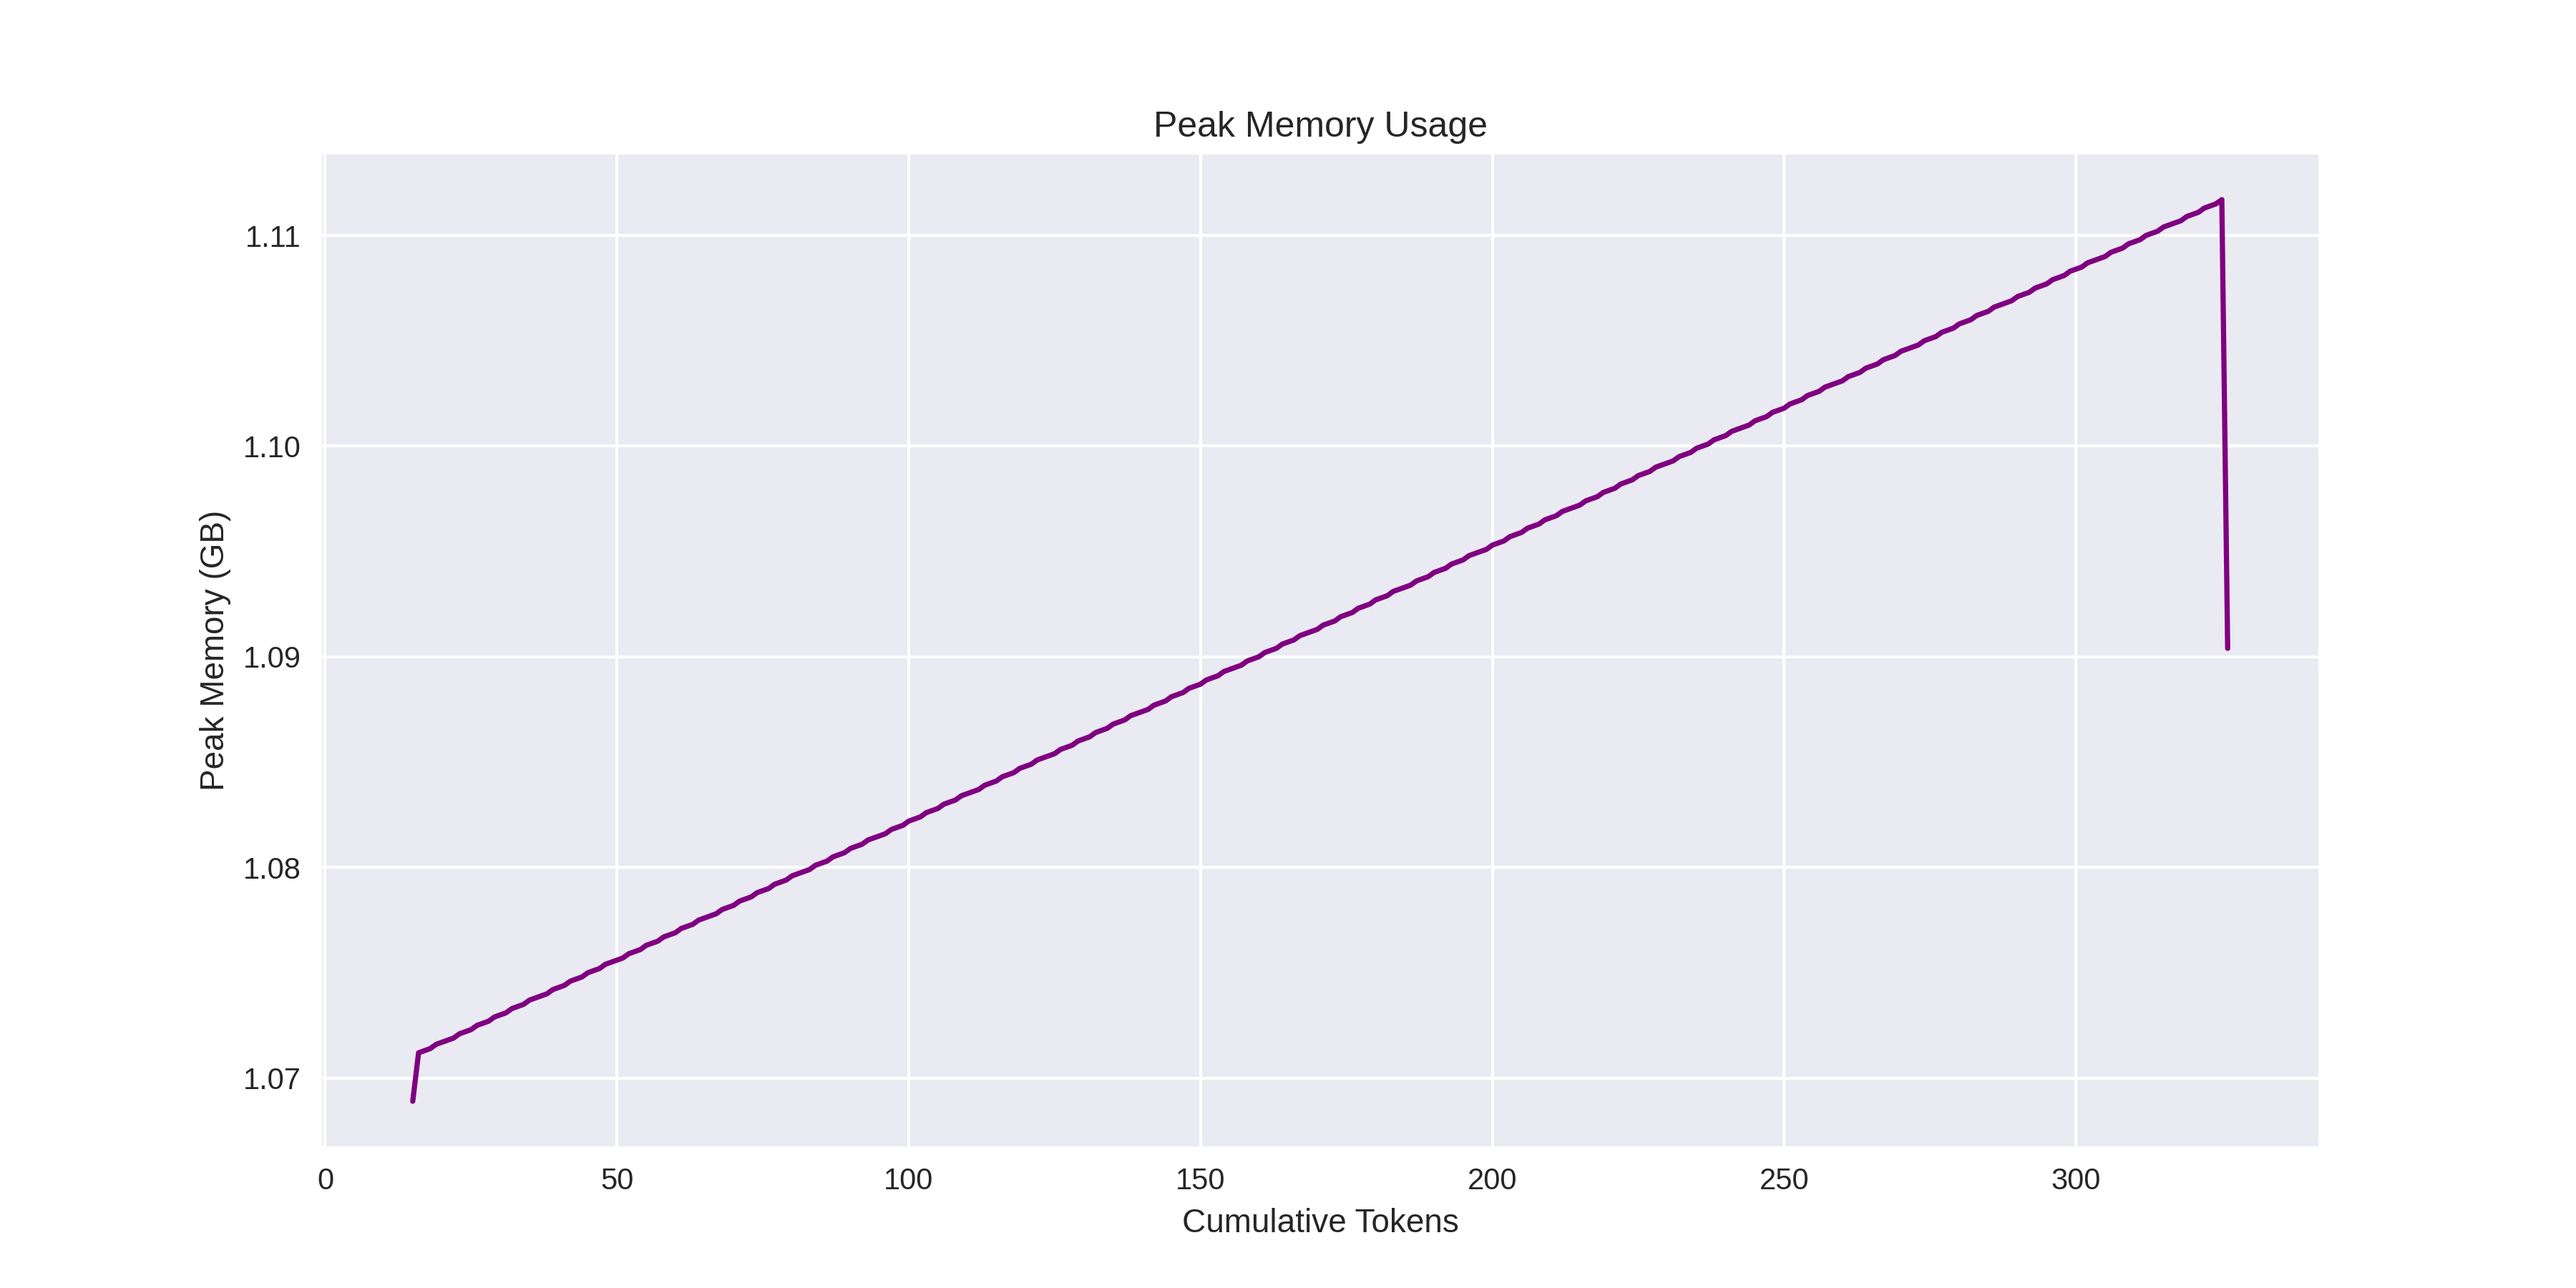
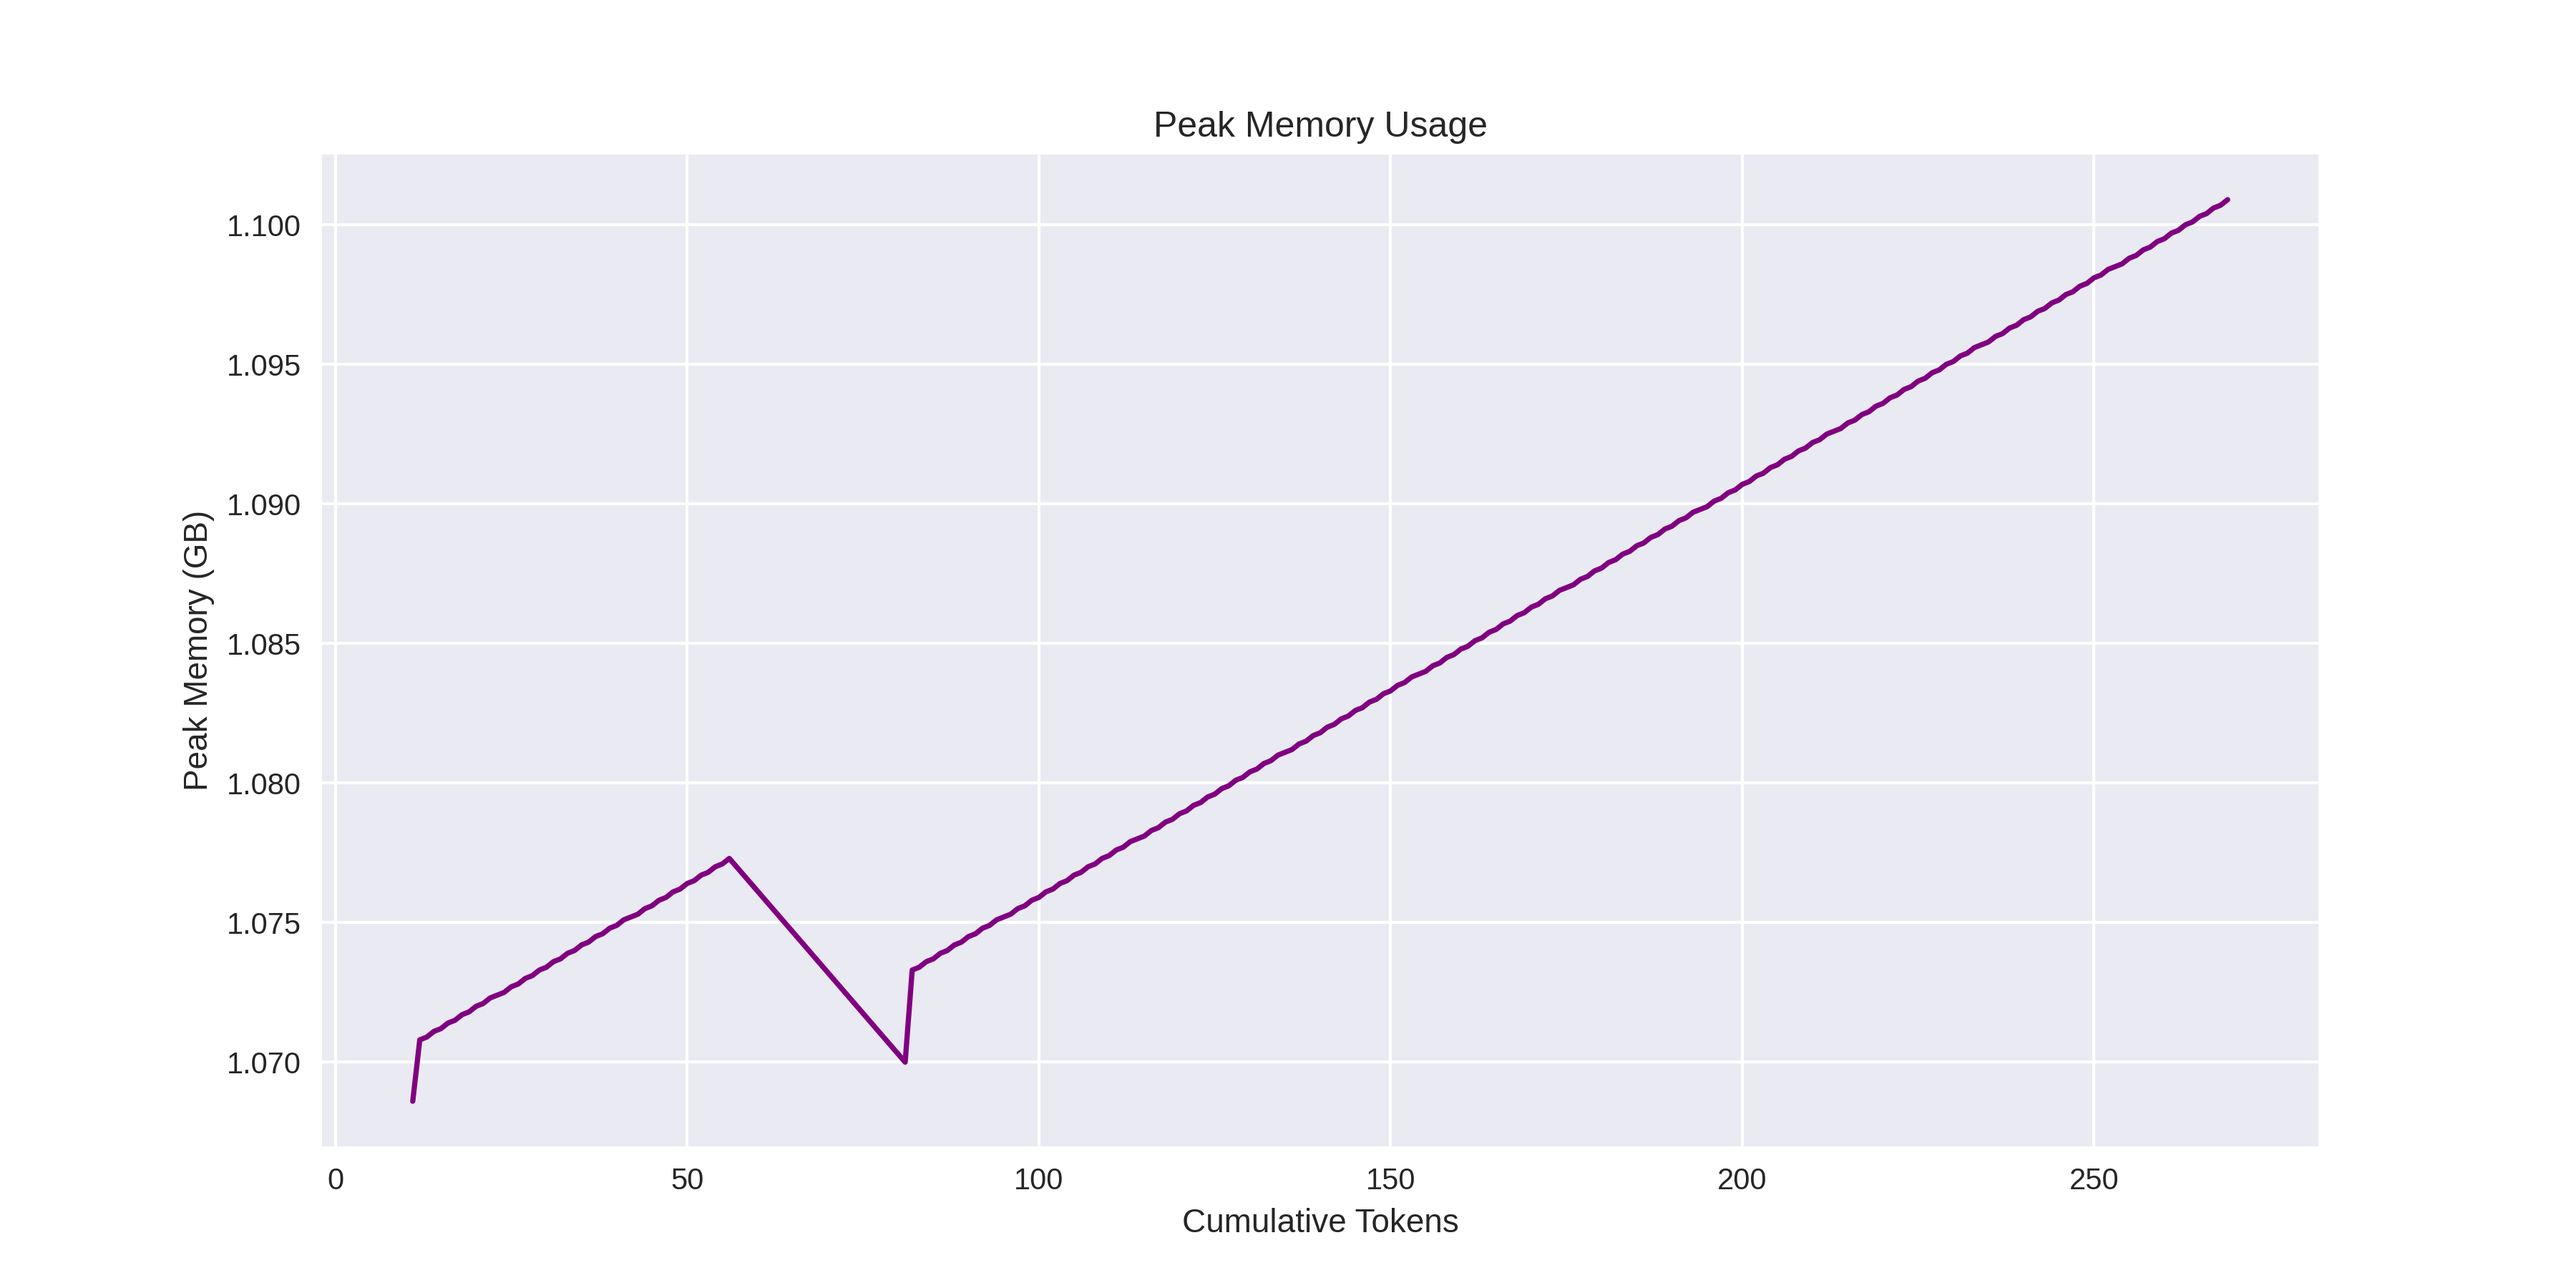
bug: pp distributed infer, comm between GPU, but OOM issue remains

diff --git a/utils/mem_check.py b/utils/mem_check.py
@@ -1,0 +1,159 @@
+import gc, torch
+from collections import defaultdict
+
+def list_gpu_tensors(top_n: int = 50):
+    tensors = []
+    for obj in gc.get_objects():
+        if torch.is_tensor(obj) and obj.is_cuda:
+            size_mb = obj.element_size() * obj.numel() / 1024**2
+            tensors.append((size_mb, tuple(obj.size()), obj.dtype))
+            
+    for size_mb, shape, dtype in sorted(tensors, key=lambda x: -x[0])[:top_n]:
+        print(f"{size_mb:8.2f} MB  |  shape={shape}  |  dtype={dtype}")
+
+
+def aggregate_gpu_tensors(top_n: int = None):
+    # stats: {(shape, dtype): {'count': int, 'mem': float}}
+    stats = defaultdict(lambda: {'count': 0, 'mem': 0.0})
+    for obj in gc.get_objects():
+        if torch.is_tensor(obj) and obj.is_cuda:
+            shape = tuple(obj.size())
+            dtype = str(obj.dtype)
+            size_mb = obj.element_size() * obj.numel() / 1024**2
+            key = (shape, dtype)
+            stats[key]['count'] += 1
+            stats[key]['mem']   += size_mb
+
+    sorted_stats = sorted(stats.items(), key=lambda x: -x[1]['mem'])
+    if top_n is not None:
+        sorted_stats = sorted_stats[:top_n]
+
+    print(f"{'Total MB':>10s} | {'Count':>5s} | {'Shape':>20s} | {'Dtype'}")
+    print("-" * 60)
+    for (shape, dtype), info in sorted_stats:
+        print(f"{info['mem']:10.2f} | {info['count']:5d} | {str(shape):20s} | {dtype}")
+
+def find_tensor_referrers(tensor, print_limit=5):
+    """
+    打印给定 tensor 的所有引用者，帮助定位内存泄漏。
+    Args:
+        tensor: 需要追踪的 torch.Tensor
+        print_limit: 最多打印多少个引用对象
+    """
+    import gc
+    refs = gc.get_referrers(tensor)
+    print(f"\n[find_tensor_referrers] Tensor shape: {tuple(tensor.size())}, dtype: {tensor.dtype}, id: {id(tensor)}")
+    print(f"找到 {len(refs)} 个引用者：")
+    for i, ref in enumerate(refs[:print_limit]):
+        print(f"  Ref {i+1}: type={type(ref)}, id={id(ref)}")
+        # 尝试打印部分内容
+        try:
+            if isinstance(ref, dict):
+                print(f"    dict keys: {list(ref.keys())[:5]}")
+            elif isinstance(ref, list):
+                print(f"    list len: {len(ref)}")
+            elif isinstance(ref, tuple):
+                print(f"    tuple len: {len(ref)}")
+            else:
+                print(f"    str: {str(ref)[:200]}")
+        except Exception as e:
+            print(f"    (无法打印内容: {e})")
+    if len(refs) > print_limit:
+        print(f"  ... 还有 {len(refs) - print_limit} 个未打印 ...")
+
+def find_all_large_tensor_referrers(size_mb_threshold=1, print_limit=3):
+    """
+    自动遍历所有大于 size_mb_threshold 的 GPU tensor，并打印其引用链。
+    """
+    import gc, torch
+    tensors = []
+    for obj in gc.get_objects():
+        if torch.is_tensor(obj) and obj.is_cuda:
+            size_mb = obj.element_size() * obj.numel() / 1024**2
+            if size_mb >= size_mb_threshold:
+                tensors.append(obj)
+    print(f"共找到 {len(tensors)} 个大于 {size_mb_threshold} MB 的 GPU tensor。")
+    for i, t in enumerate(tensors):
+        print(f'\n==== Tensor {i+1}/{len(tensors)} ====')
+        print(f'shape={tuple(t.size())}, dtype={t.dtype}, size={t.element_size() * t.numel() / 1024**2:.2f} MB')
+        find_tensor_referrers(t, print_limit=print_limit)
+
+def find_tensor_referrers_in_range(min_mb=0.5, max_mb=20, print_limit=3):
+    """
+    遍历所有GPU tensor，只对大小在[min_mb, max_mb]区间的tensor打印引用链。
+    Args:
+        min_mb: 最小MB阈值
+        max_mb: 最大MB阈值
+        print_limit: 每个tensor最多打印多少个引用对象
+    """
+    import gc, torch
+    tensors = []
+    for obj in gc.get_objects():
+        if torch.is_tensor(obj) and obj.is_cuda:
+            size_mb = obj.element_size() * obj.numel() / 1024**2
+            if min_mb <= size_mb <= max_mb:
+                tensors.append((obj, size_mb))
+    print(f"共找到 {len(tensors)} 个大小在 [{min_mb}, {max_mb}] MB 的 GPU tensor。")
+    for i, (t, size_mb) in enumerate(tensors):
+        print(f'\n==== Tensor {i+1}/{len(tensors)} ====')
+        print(f'shape={tuple(t.size())}, dtype={t.dtype}, size={size_mb:.2f} MB')
+        find_tensor_referrers(t, print_limit=print_limit)
+
+def print_ref_chain(obj, max_depth=3, cur_depth=1, visited=None):
+    """
+    递归打印对象的引用链，最多 max_depth 层。
+    """
+    import gc
+    if visited is None:
+        visited = set()
+    if cur_depth > max_depth:
+        return
+    refs = gc.get_referrers(obj)
+    for i, ref in enumerate(refs):
+        if id(ref) in visited:
+            continue
+        visited.add(id(ref))
+        print(f"{'  ' * cur_depth}↑ Level {cur_depth}: type={type(ref)}, id={id(ref)}")
+        try:
+            if isinstance(ref, dict):
+                print(f"{'  ' * cur_depth}  dict keys: {list(ref.keys())[:5]}")
+            elif isinstance(ref, list):
+                print(f"{'  ' * cur_depth}  list len: {len(ref)}")
+            elif isinstance(ref, tuple):
+                print(f"{'  ' * cur_depth}  tuple len: {len(ref)}")
+            else:
+                s = str(ref)
+                print(f"{'  ' * cur_depth}  str: {s[:200]}")
+        except Exception as e:
+            print(f"{'  ' * cur_depth}  (无法打印内容: {e})")
+        print_ref_chain(ref, max_depth=max_depth, cur_depth=cur_depth+1, visited=visited)
+
+def find_shape_grouped_tensor_referrers_in_range(min_mb=0.5, max_mb=20, print_limit=3):
+    """
+    按shape分组统计所有GPU tensor，每组总显存在[min_mb, max_mb]区间时，打印该组所有tensor的引用链（递归3级）。
+    Args:
+        min_mb: 最小MB阈值
+        max_mb: 最大MB阈值
+        print_limit: 每个tensor最多打印多少个引用对象
+    """
+    import gc, torch
+    from collections import defaultdict
+    shape_groups = defaultdict(list)
+    for obj in gc.get_objects():
+        if torch.is_tensor(obj) and obj.is_cuda:
+            shape = tuple(obj.size())
+            size_mb = obj.element_size() * obj.numel() / 1024**2
+            shape_groups[shape].append((obj, size_mb))
+    # 统计每组总显存
+    filtered = []
+    for shape, items in shape_groups.items():
+        total_mb = sum(size_mb for _, size_mb in items)
+        if min_mb <= total_mb <= max_mb:
+            filtered.append((shape, total_mb, items))
+    print(f"共找到 {len(filtered)} 个 shape 分组，总显存在 [{min_mb}, {max_mb}] MB 区间。")
+    for i, (shape, total_mb, items) in enumerate(filtered):
+        print(f'\n==== Shape Group {i+1}/{len(filtered)} ====')
+        print(f'shape={shape}, group_total={total_mb:.2f} MB, tensor_count={len(items)}')
+        for j, (t, size_mb) in enumerate(items[:print_limit]):
+            print(f'  -- Tensor {j+1}/{len(items)}: size={size_mb:.2f} MB')
+            print_ref_chain(t, max_depth=3)

diff --git a/models/llama_model.py b/models/llama_model.py
@@ -11,6 +11,7 @@ from dataclasses import dataclass
 from core.load_config import Config
 from core.distributed import DistributedModel
 from utils.monitor import MemoryMonitor
+from utils.mem_check import aggregate_gpu_tensors, find_shape_grouped_tensor_referrers_in_range
 
 
 @dataclass
@@ -188,6 +189,15 @@ class CustomLlamaForCausalLM(LlamaPreTrainedModel, GenerationMixin):
         gc.collect()
         if torch.cuda.is_available():
             torch.cuda.empty_cache()
+
+    def post_process(self):
+        """
+        Any post processing after the whole model serving.
+        """
+        futures = []
+        for rref in self.model.node_rrefs:
+            futures.append(rref.rpc_async().post_process())
+        torch.futures.wait_all(futures)
     
 
 class CustomLlamaModel(LlamaPreTrainedModel):
@@ -282,8 +292,11 @@ class CustomLlamaModel(LlamaPreTrainedModel):
         all_hidden_states = () if output_hidden_states else None
         all_self_attns = () if output_attentions else None
 
+        if isinstance(input_data, torch._C._distributed_rpc.PyRRef):
+            input_data = input_data.to_here()
+
         if self.offset[0] == 0:
-            input_data: dict = input_data.to_here()
+            # input_data: dict = input_data.to_here()
             input_ids = input_data['input_ids']
             attention_mask = input_data['attention_mask']
             position_ids = input_data['position_ids']
@@ -348,7 +361,7 @@ class CustomLlamaModel(LlamaPreTrainedModel):
             all_hidden_states = () if output_hidden_states else None
             all_self_attns = () if output_attentions else None
         else:
-            input_data: dict = input_data.to_here()
+            # input_data: dict = input_data.to_here()
             hidden_states = input_data.hidden_states
             attention_mask = input_data.attention_mask
             position_ids = input_data.position_ids
@@ -418,10 +431,6 @@ class CustomLlamaModel(LlamaPreTrainedModel):
 
             if use_cache:
                 self._kv_cache = past_key_values
-
-        # print(f"kv cache length: {self._kv_cache.get_seq_length()}")
-        # print(f"key cache length: {len(self._kv_cache.key_cache)}")
-        # print(f"kv cache element size: {self._kv_cache.key_cache[0].shape}")
             
         if self.offset[1] == self.config.num_hidden_layers:
             hidden_states = self.norm(hidden_states)
@@ -452,6 +461,12 @@ class CustomLlamaModel(LlamaPreTrainedModel):
             )
             
             return output
+        
+    def post_process(self):
+        """
+        Any post processing after the whole model serving.
+        """
+        aggregate_gpu_tensors()
         
     def reset_kv_cache(self):
         """More aggressive cache cleanup"""

diff --git a/core/distributed.py b/core/distributed.py
@@ -39,26 +39,22 @@ class DistributedModel(nn.Module):
                 )
                 self.current_cache_position += seq_length
             
+            
+            current_rref = RRef(current_data)
             # Pipeline through stages
             for i, rref in enumerate(self.node_rrefs):
-                # Convert to RRef only when needed
-                current_rref = RRef(current_data)
-                
                 # Process on current stage
                 if i < len(self.node_rrefs) - 1:
-                    current_data = rref.remote().forward(current_rref).to_here()
-                    del current_rref  # Explicit cleanup
+                    current_rref = rref.remote().forward(current_rref)
                 else:
                     # Last stage uses async to overlap compute/transfer
                     future = rref.rpc_async().forward(current_rref)
-                    current_data = future.wait()
-                    del future, current_rref
                 
                 # Memory cleanup
                 if torch.cuda.is_available():
                     torch.cuda.empty_cache()
             
-            return current_data
+            return torch.futures.wait_all([future])[0]
 
     def reset_cache(self):
         """Reset KV cache and position tracking across all stages"""

diff --git a/utils/custom_cache.py b/utils/custom_cache.py
@@ -1,0 +1,26 @@
+from transformers.cache_utils import DynamicCache
+from typing import List, Tuple
+import torch
+
+class CustomDynamicCache(DynamicCache):
+    """
+    A custom DynamicCache that can be cleared without being destroyed.
+    """
+    def clear(self):
+        """
+        Clears the cache content for all layers.
+        """
+        for i in range(len(self.key_cache)):
+            self.key_cache[i] = torch.tensor([], device=self.key_cache[i].device, dtype=self.key_cache[i].dtype)
+            self.value_cache[i] = torch.tensor([], device=self.value_cache[i].device, dtype=self.value_cache[i].dtype)
+        # Or more aggressively:
+        self.key_cache.clear()
+        self.value_cache.clear()
+        self._seen_tokens = 0
+
+    def to_legacy_cache(self) -> Tuple[Tuple[torch.Tensor], Tuple[torch.Tensor]]:
+        """Converts the `DynamicCache` instance into the its equivalent in the legacy cache format."""
+        legacy_cache = ()
+        for layer_idx in range(len(self)):
+            legacy_cache += ((self.key_cache[layer_idx], self.value_cache[layer_idx]),)
+        return legacy_cache 

diff --git a/utils/tools.py b/utils/tools.py
@@ -1,0 +1,22 @@
+import dataclasses
+import torch
+
+
+# ---------- generic helper ----------
+def _move_any(obj, device=None, dtype=None, non_blocking=False):
+    """Recursively move every torch.Tensor found in obj to device/dtype."""
+    if isinstance(obj, torch.Tensor):
+        return obj.to(device=device, dtype=dtype, non_blocking=non_blocking)
+
+    if isinstance(obj, dict):
+        return {k: _move_any(v, device, dtype, non_blocking) for k, v in obj.items()}
+
+    if isinstance(obj, (list, tuple)):
+        return type(obj)(_move_any(v, device, dtype, non_blocking) for v in obj)
+
+    # dataclass (not strictly needed here because we'll handle via dataclasses.replace)
+    if dataclasses.is_dataclass(obj):
+        # fallback: rebuild generically
+        new_vals = {f.name: _move_any(getattr(obj, f.name), device, dtype, non_blocking)
+                    for f in dataclasses.fields(obj)}
+        return obj.__class__(**new_vals)

diff --git a/core/inference.py b/core/inference.py
@@ -74,7 +74,7 @@ def inference():
         cfg = AutoConfig.from_pretrained(
             model_name,
             max_position_embeddings=1024,
-            use_cache=True
+            use_cache=True,
         )
         tok = AutoTokenizer.from_pretrained(model_name)
         model = CustomLlamaForCausalLM(cfg, runtime_cfg).eval().half()
@@ -93,6 +93,7 @@ def inference():
         try:
             user_input = input("用户: ").strip()
             if user_input.lower() == "/exit":     
+                model.post_process()
                 model.memory_monitor.save_to_csv()
                 rpc.shutdown()
                 sys.exit(0)
@@ -161,6 +162,7 @@ def inference():
         except KeyboardInterrupt:
             print("\nCleaning up...")
             model.memory_monitor.save_to_csv()
+            model.post_process()
             rpc.shutdown()
             sys.exit(0)
         except torch.cuda.OutOfMemoryError:
